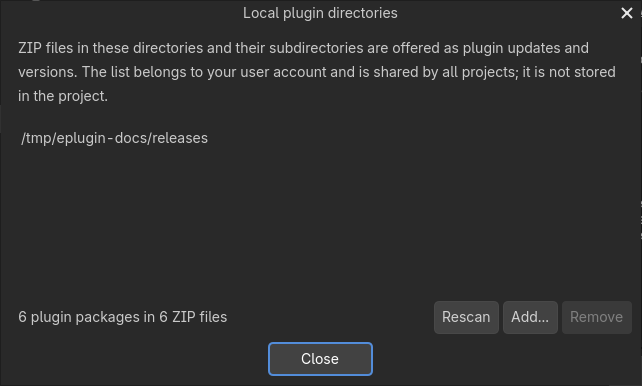
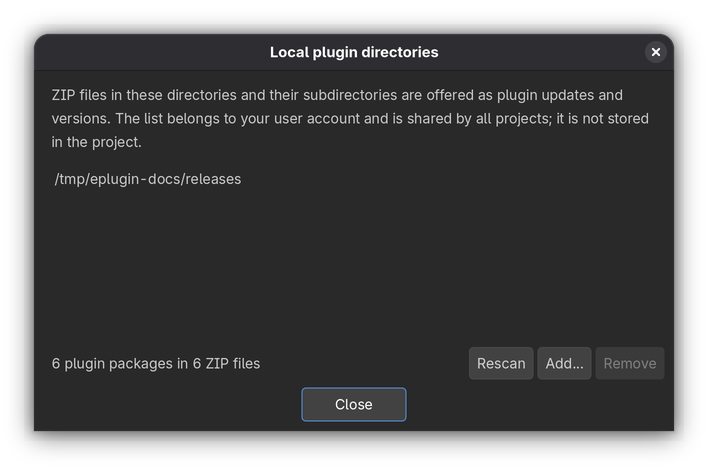
docs: refresh screenshots and illustrate the remaining dialogs
Replaces the ePlugin Manager, update and local directory screenshots and adds the toolbar button, progress window, update sites, update site editor, update failure, license and welcome dialogs to their documentation pages.

diff --git a/docs/updating-plugins.md b/docs/updating-plugins.md
@@ -43,6 +43,10 @@ A project can set the update site of a plugin itself, in **Update sites...** of 
 - **Edit...** (or double-clicking an entry) changes the URL of the selected plugin.
 - **Remove** deletes the entry; the plugin uses its `update_url` again.
 
+![Update sites dialog with a project update site for gdUnit4 and the expanded built-in list, installed add-ons first](images/eplugin-update-sites.png)
+
+![Edit update site dialog for gdUnit4 with its URL and the supported URL forms](images/eplugin-update-site-editor.png)
+
 The URL can be any [supported source](#configure-an-update-source): GitHub or GitLab releases, or a Git repository. Other URLs are refused when you save them. The dialog shows each plugin's `plugin.cfg` `update_url` next to the site that replaces it.
 
 The project's update site is always tried first. When it does not work, the plugin's `update_url` is checked instead, and then its [built-in update site](#built-in-update-sites): for example when the site does not respond, returns an error, or is not a supported URL because the file was edited by hand. The output log and the manager's status line say when this happened. A plugin with no other site reports the failed check.
@@ -144,6 +148,10 @@ A batch is installed in groups, one after another. Plugins that depend on each o
 Each group has a durable journal, old addon trees, project backups, and build logs under `.godot/eplugin/updates/<id>/`. A local state marker is written before file changes. The shared `addons/eplugin-state.json` advances for a group's plugins after that group builds and verifies successfully. Commit that index with the updated addon files. Backups are removed after success; failed updates retain logs. When a group finishes, the backups of the groups still waiting for the restart are refreshed, so rolling one of them back later keeps the finished group's project changes.
 
 Interim build failures, installation failures, and self-update failures roll back automatically. A final build failure of a batch installed as one group normally offers **Roll back**, **Keep new version**, and **Open build log**; a batch of several groups always rolls the failed group back, because a project that does not build would fail every later group. Closing the dialog rolls back; closing the editor while a decision is pending preserves it for the next startup. Headless execution always rolls back. Keeping a failed version retains its backup and an `update_kept_build_failed` local marker without advancing the shared index. Fix the build and use **Retry failed** in the manager to verify and acknowledge it. If the shared index changed externally, merge it and retry acknowledgement.
+
+![Update failure dialog for sample_plugin 1.0 to 1.1.0 listing the compiler errors, the build log path, and the Keep new version, Roll back and Open build log buttons](images/update-build-failure.png)
+
+The dialog lists the errors of the build log; the plugin, errors and paths in the screenshot are sample data.
 
 C# updates may restart for the assembly handoff; managed C# recipes restart after their final build, and ePlugin Framework self-updates always restart. If automatic launch fails, reopen the project to resume its journal. Before a self-update swap, the progress helper closes to release Windows file locks. Early recovery runs before framework initialization: after two startups without a health marker, it restores the prior framework, rebuilds it, clears its local marker, and requests a restart.
 

diff --git a/docs/eplugin-manager.md b/docs/eplugin-manager.md
@@ -2,7 +2,9 @@
 
 Open **ePlugin Manager** with the ePlugin button at the right of the editor's main toolbar or from **Project > Tools > ePlugin Manager...**.
 
-![ePlugin Manager listing enabled and disabled sample plugins with the selected plugin's details](images/eplugin-manager.png)
+![The ePlugin button at the right end of the editor's main toolbar, after the run buttons](images/eplugin-toolbar-button.png)
+
+![ePlugin Manager listing the installed plugins, with the details of the selected SamplePlugin: status, missing license, welcome page and update source](images/eplugin-manager.png)
 
 The overview above uses the repository's sample plugins in Godot's default dark editor theme.
 
@@ -21,7 +23,9 @@ Select a plugin to see its status, author, documentation and source links, licen
 - **Open release page** opens the release notes for the selected update.
 - **Version** selects a published version for an enabled plugin with an `update_url` or a package in a local plugin directory. Choose **Update** or **Downgrade** to install it, or **Reinstall** with the installed version selected to install it again: this gets new commits of a pinned Git branch whose version did not change, and repairs addon files changed in the project. Downgrades and reinstalls use the same download, validation, backup, and rollback flow as updates. The ePlugin Framework itself cannot be downgraded because an older framework cannot complete or recover the update that installs it.
 
-Long-running actions (enabling and disabling, **Retry failed**, **Check for updates**, downloading and installing) show their progress in ePlugin's separate progress window; the manager's status line reports the outcome. After the C# project was rebuilt, for example by an activation or an IDE build, the actions wait until the editor has loaded the rebuilt code, and the status line says *Waiting for the editor to load the rebuilt C# code...* meanwhile. They become available again after at most 15 seconds, even if the editor does not reload.
+Long-running actions (enabling and disabling, **Retry failed**, **Check for updates**, downloading and installing) show their progress in ePlugin's separate progress window; the manager's status line reports the outcome. After the C# project was rebuilt, for example by an activation or an IDE build, the actions wait until the editor has loaded the rebuilt code, and the status line says *Waiting for the editor to load the rebuilt C# code...* meanwhile. They become available again after at most 15 seconds, even if the editor does not reload. The progress window comes from a small helper included in release archives (see [Requirements and installation](../README.md#requirements-and-installation)).
+
+![The ePlugin Framework progress window while Sample Dependant Plugin is activated](images/activation-progress.png)
 
 ## Scheduled checks
 

diff --git a/docs/plugin-welcome.md b/docs/plugin-welcome.md
@@ -50,6 +50,10 @@ The welcome dialog opens once a plugin is installed and enabled: after an ePlugi
 
 When several plugins are installed together, for example a plugin with the dependencies it enables, their welcome pages are collected into one dialog. The list on the left shows each plugin; select one to read its page. Close the dialog when you are done: closing it counts every page in it as read. Pages do not have to be opened one by one.
 
+![Welcome dialog listing Sample Dependant Plugin and SamplePlugin, showing the BBCode README of Sample Dependant Plugin](images/plugin-welcome.png)
+
+The screenshot shows the welcome pages of the repository's sample plugins, which are their BBCode `README` files.
+
 At startup and after C# assembly reloads, the framework also checks the enabled plugins whose welcome page was not shown yet, for example plugins enabled while the editor was closed, or enabled before the framework supported welcome pages. Their pages are shown then.
 
 A plugin's welcome page is shown once per project, not once per developer: disabling and enabling the plugin again does not show it again. An editor restart or assembly reload while the dialog is open closes it without counting the pages as read, so they are shown again afterwards. In a headless editor no dialog can be shown and nothing is recorded.

diff --git a/docs/plugin-licenses.md b/docs/plugin-licenses.md
@@ -53,6 +53,10 @@ The plugin shows as disabled in **Project Settings > Plugins** while the dialog 
 
 When enabling a plugin also enables disabled dependencies that ask for a license, all of these licenses are collected into one dialog. The list on the left shows each plugin and whether its license was accepted or declined. **Accept all** accepts every license that is not decided yet. A plugin is enabled only if all the licenses it needs are accepted. Declining a dependency's license leaves the plugin that needs it disabled as well.
 
+![License dialog for enabling Sample Dependant Plugin: SamplePlugin's license is accepted, and the plugin's own license is shown next with Decline and Accept](images/plugin-license.png)
+
+In this example, enabling Sample Dependant Plugin also enables SamplePlugin, its dependency. SamplePlugin's license was accepted already, so the dialog shows the plugin's own license next. The sample plugins do not ask for a license themselves; the screenshot uses the framework's MIT license as an example.
+
 A license is accepted once per project. Disabling and enabling the plugin again does not ask again. In a headless editor no dialog can be shown, so a plugin that needs a license is not enabled unless licenses are accepted automatically.
 
 ## When a license counts as accepted
